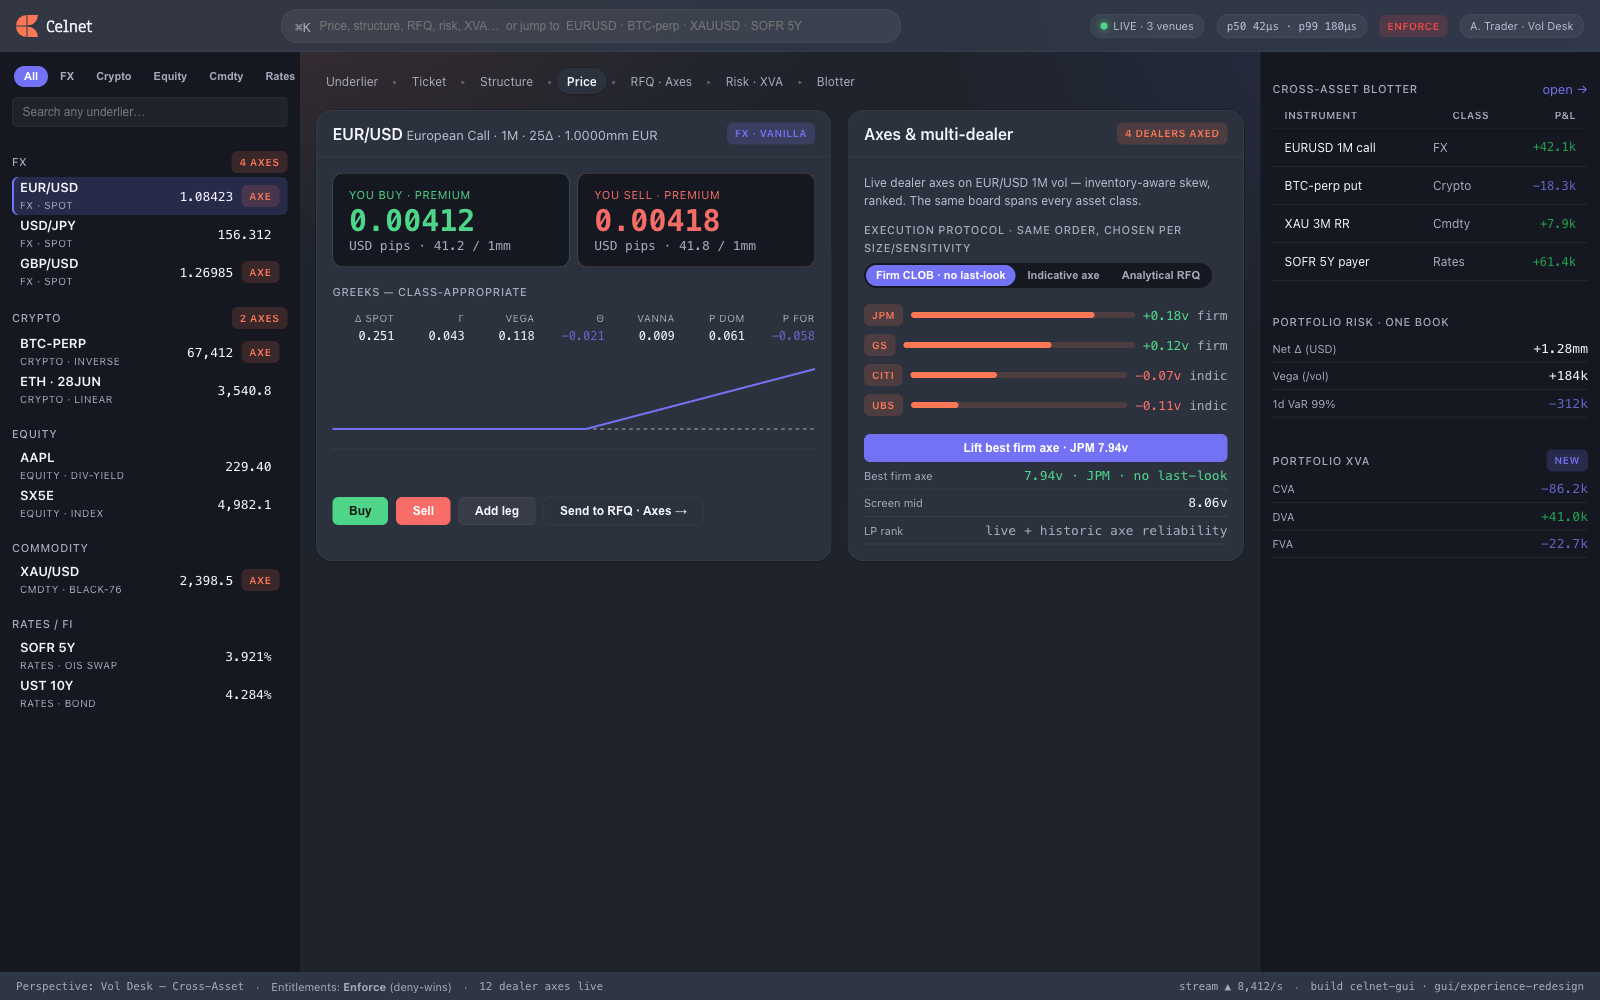
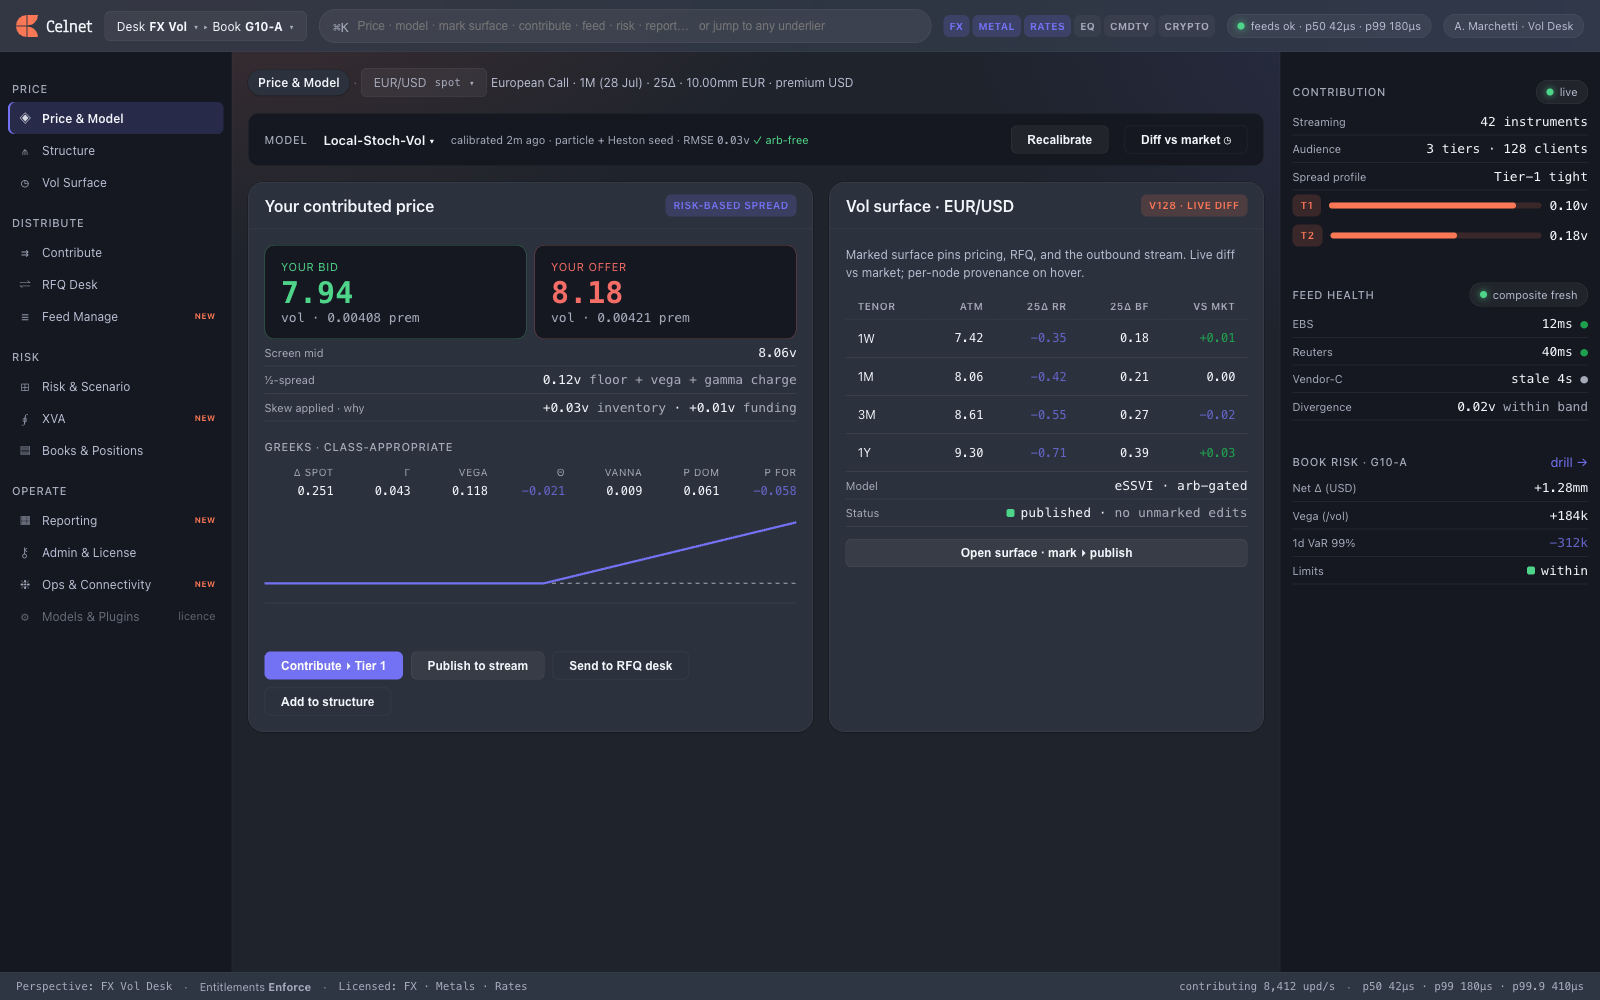
gui-redesign(mockup): rebuild shell 00 to sell-side model (verified render)
Desk/Book scope spine + visible per-class license badges + capability rail; pricing&modelling HERO (model selector/calibration); 'your contributed price' (bid/offer + spread breakdown + skew-why) replaces buy/sell; surface publish + contribution/feed-health/book-risk context. No execution affordances. Rendered 1600x1000.

diff --git a/docs/gui-redesign/mockups/00-shell.html b/docs/gui-redesign/mockups/00-shell.html
@@ -3,7 +3,7 @@
 <head>
 <meta charset="utf-8" />
 <meta name="viewport" content="width=device-width, initial-scale=1" />
-<title>Celnet — Unified Cross-Asset Shell (mockup 00)</title>
+<title>Celnet — Sell-Side Shell (mockup 00, v2)</title>
 <link rel="preconnect" href="https://fonts.googleapis.com" />
 <link href="https://fonts.googleapis.com/css2?family=Anaheim&display=swap" rel="stylesheet" />
 <link rel="stylesheet" href="celer.css" />
@@ -11,77 +11,78 @@
 <body>
 <div class="app">
 
-  <!-- ============ TOP COMMAND BAR (chrome) ============ -->
+  <!-- ============ TOP COMMAND BAR ============ -->
   <header class="topbar">
     <div class="brandlockup">
       <svg class="pinwheel" viewBox="0 0 501 500" aria-hidden="true"><path d="M500.12.7H262.61V238.21C393.78,238.21,500.12,131.88,500.12.7M262.49,262V499.55H500C500,368.38,393.67,262,262.49,262M238.7,499.55V262H1.19c0,131.17,106.34,237.51,237.51,237.51M1.19,238.19H238.7V.67C107.53.67,1.19,107,1.19,238.19"/></svg>
       <span class="wm">Celnet</span>
     </div>
+    <span class="scope" title="Scope everything to a desk & book">Desk <b>FX Vol</b> <span class="car">▾</span> <span class="s">▸</span> Book <b>G10-A</b> <span class="car">▾</span></span>
     <div class="cmd">
       <span class="glyph num">⌘K</span>
-      <input placeholder="Price, structure, RFQ, risk, XVA…  or jump to  EURUSD · BTC-perp · XAUUSD · SOFR 5Y" />
+      <input placeholder="Price · model · mark surface · contribute · feed · risk · report…   or jump to any underlier" />
     </div>
-    <span class="pill"><span class="dot live"></span> LIVE · 3 venues</span>
-    <span class="pill num">p50 42µs · p99 180µs</span>
-    <span class="chip enforce">Enforce</span>
-    <span class="pill">A. Trader · Vol Desk</span>
+    <span class="lic" title="Licensed asset classes for this desk"><span class="t">FX</span><span class="t">Metal</span><span class="t">Rates</span><span class="t off">Eq</span><span class="t off">Cmdty</span><span class="t off">Crypto</span></span>
+    <span class="pill"><span class="dot live"></span> feeds ok · p50 42µs · p99 180µs</span>
+    <span class="pill">A. Marchetti · Vol Desk</span>
   </header>
 
-  <!-- ============ UNIVERSAL UNDERLIER PICKER (entity spine) ============ -->
-  <nav class="nav" aria-label="Universal underlier picker">
-    <div class="seg" role="tablist" aria-label="Asset class filter">
-      <button class="on">All</button><button>FX</button><button>Crypto</button>
-      <button>Equity</button><button>Cmdty</button><button>Rates</button>
-    </div>
-    <input class="search" placeholder="Search any underlier…" />
-
-    <div class="grouphdr"><span class="label">FX</span><span class="chip axe">4 axes</span></div>
-    <div class="uline sel"><div><div class="sym">EUR/USD</div><div class="cls">FX · spot</div></div><div class="px num">1.08423</div><span class="chip axe" title="dealer axe live">AXE</span></div>
-    <div class="uline"><div><div class="sym">USD/JPY</div><div class="cls">FX · spot</div></div><div class="px num">156.312</div><span></span></div>
-    <div class="uline"><div><div class="sym">GBP/USD</div><div class="cls">FX · spot</div></div><div class="px num">1.26985</div><span class="chip axe">AXE</span></div>
-
-    <div class="grouphdr"><span class="label">Crypto</span><span class="chip axe">2 axes</span></div>
-    <div class="uline"><div><div class="sym">BTC-PERP</div><div class="cls">Crypto · inverse</div></div><div class="px num">67,412</div><span class="chip axe">AXE</span></div>
-    <div class="uline"><div><div class="sym">ETH · 28JUN</div><div class="cls">Crypto · linear</div></div><div class="px num">3,540.8</div><span></span></div>
-
-    <div class="grouphdr"><span class="label">Equity</span></div>
-    <div class="uline"><div><div class="sym">AAPL</div><div class="cls">Equity · div-yield</div></div><div class="px num">229.40</div><span></span></div>
-    <div class="uline"><div><div class="sym">SX5E</div><div class="cls">Equity · index</div></div><div class="px num">4,982.1</div><span></span></div>
-
-    <div class="grouphdr"><span class="label">Commodity</span></div>
-    <div class="uline"><div><div class="sym">XAU/USD</div><div class="cls">Cmdty · Black-76</div></div><div class="px num">2,398.5</div><span class="chip axe">AXE</span></div>
-
-    <div class="grouphdr"><span class="label">Rates / FI</span></div>
-    <div class="uline"><div><div class="sym">SOFR 5Y</div><div class="cls">Rates · OIS swap</div></div><div class="px num">3.921%</div><span></span></div>
-    <div class="uline"><div><div class="sym">UST 10Y</div><div class="cls">Rates · bond</div></div><div class="px num">4.284%</div><span></span></div>
+  <!-- ============ CAPABILITY RAIL ============ -->
+  <nav class="rail" aria-label="Capabilities">
+    <div class="grp label">Price</div>
+    <a class="on"><span class="ic">◈</span><span>Price &amp; Model</span><span></span></a>
+    <a><span class="ic">⋔</span><span>Structure</span><span></span></a>
+    <a><span class="ic">◷</span><span>Vol Surface</span><span></span></a>
+    <div class="grp label">Distribute</div>
+    <a><span class="ic">⇉</span><span>Contribute</span><span></span></a>
+    <a><span class="ic">⇌</span><span>RFQ Desk</span><span></span></a>
+    <a><span class="ic">≡</span><span>Feed Manage</span><span class="new">new</span></a>
+    <div class="grp label">Risk</div>
+    <a><span class="ic">⊞</span><span>Risk &amp; Scenario</span><span></span></a>
+    <a><span class="ic">∮</span><span>XVA</span><span class="new">new</span></a>
+    <a><span class="ic">▤</span><span>Books &amp; Positions</span><span></span></a>
+    <div class="grp label">Operate</div>
+    <a><span class="ic">▦</span><span>Reporting</span><span class="new">new</span></a>
+    <a><span class="ic">⚷</span><span>Admin &amp; License</span><span></span></a>
+    <a><span class="ic">❈</span><span>Ops &amp; Connectivity</span><span class="new">new</span></a>
+    <a class="gate"><span class="ic">⚙</span><span>Models &amp; Plugins</span><span class="lock">licence</span></a>
   </nav>
 
-  <!-- ============ MAIN — DRILL-DOWN SPINE + ONE TICKET ============ -->
+  <!-- ============ MAIN — PRICE & MODEL WORKBENCH ============ -->
   <main class="main">
-    <div class="spine" aria-label="Workflow spine">
-      <span class="step">Underlier</span><span class="sep">▸</span>
-      <span class="step">Ticket</span><span class="sep">▸</span>
-      <span class="step">Structure</span><span class="sep">▸</span>
-      <span class="step on">Price</span><span class="sep">▸</span>
-      <span class="step">RFQ · Axes</span><span class="sep">▸</span>
-      <span class="step">Risk · XVA</span><span class="sep">▸</span>
-      <span class="step">Blotter</span>
+    <div class="spine" aria-label="Context">
+      <span class="step on">Price &amp; Model</span><span class="sep">·</span>
+      <span class="underlier-btn" title="Raw vendor ticker: EURUSD (EBS) — human-readable everywhere">EUR/USD <span class="tk">spot</span> <span class="car">▾</span></span>
+      <span class="muted">European Call · 1M (28 Jul) · 25Δ · 10.00mm EUR · premium USD</span>
+    </div>
+
+    <!-- model hero -->
+    <div class="model">
+      <span class="label" style="margin:0">Model</span>
+      <span class="sel">Local-Stoch-Vol <span class="car">▾</span></span>
+      <span class="meta">calibrated 2m ago · particle + Heston seed · RMSE <span class="num">0.03v</span> <span class="ok">✓ arb-free</span></span>
+      <span style="flex:1"></span>
+      <button class="btn">Recalibrate</button>
+      <button class="btn ghost">Diff vs market ◷</button>
     </div>
 
     <div class="cols c2">
-      <!-- Ticket / price -->
+      <!-- contributed price -->
       <section class="panel">
         <header>
-          <div><span class="headline">EUR/USD</span> <span class="muted">European Call · 1M · 25Δ · 1.0000mm EUR</span></div>
-          <span class="chip acc">FX · vanilla</span>
+          <span class="headline">Your contributed price</span>
+          <span class="chip acc">risk-based spread</span>
         </header>
         <div class="body">
           <div class="quote2">
-            <div class="q buy flash"><div class="side">You buy · premium</div><div class="val">0.00412</div><div class="dim num">USD pips · 41.2 / 1mm</div></div>
-            <div class="q sell"><div class="side">You sell · premium</div><div class="val">0.00418</div><div class="dim num">USD pips · 41.8 / 1mm</div></div>
+            <div class="q buy"><div class="side">Your bid</div><div class="val">7.94</div><div class="dim num">vol · 0.00408 prem</div></div>
+            <div class="q sell"><div class="side">Your offer</div><div class="val">8.18</div><div class="dim num">vol · 0.00421 prem</div></div>
           </div>
+          <div class="kv"><span class="k">Screen mid</span><span class="v num">8.06v</span></div>
+          <div class="kv"><span class="k">½-spread</span><span class="v num">0.12v <span class="dim">floor + vega + gamma charge</span></span></div>
+          <div class="kv"><span class="k">Skew applied · why</span><span class="v num">+0.03v <span class="dim">inventory</span> · +0.01v <span class="dim">funding</span></span></div>
 
-          <div style="margin:16px 0 8px" class="label">Greeks — class-appropriate</div>
+          <div style="margin:16px 0 8px" class="label">Greeks · class-appropriate</div>
           <div class="greeks">
             <div class="g"><div class="k">Δ spot</div><div class="v">0.251</div></div>
             <div class="g"><div class="k">Γ</div><div class="v">0.043</div></div>
@@ -92,77 +93,77 @@
             <div class="g"><div class="k">ρ for</div><div class="v neg">−0.058</div></div>
           </div>
 
-          <svg class="payoff" viewBox="0 0 400 120" preserveAspectRatio="none" style="margin-top:14px" aria-label="Payoff at expiry">
-            <line class="axis" x1="0" y1="90" x2="400" y2="90" /><line class="zero" x1="0" y1="70" x2="400" y2="70" />
-            <path class="curve" d="M0,70 L210,70 L400,10" />
+          <svg class="payoff" viewBox="0 0 400 110" preserveAspectRatio="none" style="margin-top:14px" aria-label="Payoff at expiry">
+            <line class="axis" x1="0" y1="82" x2="400" y2="82" /><line class="zero" x1="0" y1="64" x2="400" y2="64" />
+            <path class="curve" d="M0,64 L210,64 L400,8" />
           </svg>
-          <div style="display:flex; gap:8px; margin-top:14px">
-            <button class="btn buy">Buy</button><button class="btn sell">Sell</button>
-            <button class="btn">Add leg</button><button class="btn ghost">Send to RFQ · Axes →</button>
+          <div style="display:flex; gap:8px; margin-top:14px; flex-wrap:wrap">
+            <button class="btn primary">Contribute ▸ Tier 1</button>
+            <button class="btn">Publish to stream</button>
+            <button class="btn ghost">Send to RFQ desk</button>
+            <button class="btn ghost">Add to structure</button>
           </div>
         </div>
       </section>
 
-      <!-- Axes & multi-dealer teaser -->
+      <!-- vol surface signature + provenance -->
       <section class="panel">
-        <header><span class="headline">Axes &amp; multi-dealer</span><span class="chip brand">4 dealers axed</span></header>
+        <header><span class="headline">Vol surface · EUR/USD</span><span class="chip brand">v128 · live diff</span></header>
         <div class="body">
-          <p class="muted" style="margin-top:0; font-size:12px">Live dealer axes on EUR/USD 1M vol — inventory-aware skew, ranked. The same board spans every asset class.</p>
-          <div class="label" style="margin-bottom:6px">Execution protocol · same order, chosen per size/sensitivity</div>
-          <div class="seg" style="margin-bottom:12px">
-            <button class="on">Firm CLOB · no last-look</button><button>Indicative axe</button><button>Analytical RFQ</button>
-          </div>
-          <div class="axeline"><span class="chip brand">JPM</span><span class="bar"><i style="width:82%"></i></span><span class="num bid">+0.18v <span class="dim">firm</span></span></div>
-          <div class="axeline"><span class="chip brand">GS</span><span class="bar"><i style="width:64%"></i></span><span class="num bid">+0.12v <span class="dim">firm</span></span></div>
-          <div class="axeline"><span class="chip brand">CITI</span><span class="bar"><i style="width:40%"></i></span><span class="num offer">−0.07v <span class="dim">indic</span></span></div>
-          <div class="axeline"><span class="chip brand">UBS</span><span class="bar"><i style="width:22%"></i></span><span class="num offer">−0.11v <span class="dim">indic</span></span></div>
-          <button class="btn primary" style="margin-top:14px; width:100%">Lift best firm axe · JPM 7.94v</button>
-          <div class="kv"><span class="k">Best firm axe</span><span class="v bid">7.94v · JPM · no last-look</span></div>
-          <div class="kv"><span class="k">Screen mid</span><span class="v">8.06v</span></div>
-          <div class="kv"><span class="k">LP rank</span><span class="v dim">live + historic axe reliability</span></div>
+          <p class="muted" style="margin-top:0; font-size:12px">Marked surface pins pricing, RFQ, and the outbound stream. Live diff vs market; per-node provenance on hover.</p>
+          <table class="grid">
+            <thead><tr><th>Tenor</th><th>ATM</th><th>25Δ RR</th><th>25Δ BF</th><th>vs mkt</th></tr></thead>
+            <tbody>
+              <tr><td>1W</td><td class="n">7.42</td><td class="n neg">−0.35</td><td class="n">0.18</td><td class="n pos">+0.01</td></tr>
+              <tr><td>1M</td><td class="n">8.06</td><td class="n neg">−0.42</td><td class="n">0.21</td><td class="n">0.00</td></tr>
+              <tr><td>3M</td><td class="n">8.61</td><td class="n neg">−0.55</td><td class="n">0.27</td><td class="n neg">−0.02</td></tr>
+              <tr><td>1Y</td><td class="n">9.30</td><td class="n neg">−0.71</td><td class="n">0.39</td><td class="n pos">+0.03</td></tr>
+            </tbody>
+          </table>
+          <div class="kv"><span class="k">Model</span><span class="v">eSSVI · arb-gated</span></div>
+          <div class="kv"><span class="k">Status</span><span class="v"><span class="rag g"></span>published · <span class="dim">no unmarked edits</span></span></div>
+          <button class="btn" style="margin-top:12px; width:100%">Open surface · mark ▸ publish</button>
         </div>
       </section>
     </div>
   </main>
 
-  <!-- ============ CONTEXT RAIL — cross-asset blotter + risk/XVA ============ -->
-  <aside class="ctx" aria-label="Cross-asset context">
+  <!-- ============ CONTEXT RAIL — scope-aware sell-side ============ -->
+  <aside class="ctx" aria-label="Desk context">
     <section>
-      <div class="grouphdr"><span class="label">Cross-asset blotter</span><a>open →</a></div>
-      <table class="grid">
-        <thead><tr><th>Instrument</th><th>Class</th><th>P&amp;L</th></tr></thead>
-        <tbody>
-          <tr><td>EURUSD 1M call</td><td class="dim">FX</td><td class="n pos">+42.1k</td></tr>
-          <tr><td>BTC-perp put</td><td class="dim">Crypto</td><td class="n neg">−18.3k</td></tr>
-          <tr><td>XAU 3M RR</td><td class="dim">Cmdty</td><td class="n pos">+7.9k</td></tr>
-          <tr><td>SOFR 5Y payer</td><td class="dim">Rates</td><td class="n pos">+61.4k</td></tr>
-        </tbody>
-      </table>
+      <div class="grouphdr"><span class="label">Contribution</span><span class="pill"><span class="dot live"></span> live</span></div>
+      <div class="kv"><span class="k">Streaming</span><span class="v num">42 instruments</span></div>
+      <div class="kv"><span class="k">Audience</span><span class="v num">3 tiers · 128 clients</span></div>
+      <div class="kv"><span class="k">Spread profile</span><span class="v">Tier-1 tight</span></div>
+      <div class="axeline"><span class="chip brand">T1</span><span class="bar"><i style="width:88%"></i></span><span class="num">0.10v</span></div>
+      <div class="axeline"><span class="chip brand">T2</span><span class="bar"><i style="width:60%"></i></span><span class="num">0.18v</span></div>
     </section>
 
     <section>
-      <div class="grouphdr"><span class="label">Portfolio risk · one book</span></div>
-      <div class="kv"><span class="k">Net Δ (USD)</span><span class="v">+1.28mm</span></div>
-      <div class="kv"><span class="k">Vega (/vol)</span><span class="v">+184k</span></div>
-      <div class="kv"><span class="k">1d VaR 99%</span><span class="v neg">−312k</span></div>
+      <div class="grouphdr"><span class="label">Feed health</span><span class="pill"><span class="dot live"></span> composite fresh</span></div>
+      <div class="kv"><span class="k">EBS</span><span class="v num">12ms <span class="pos">●</span></span></div>
+      <div class="kv"><span class="k">Reuters</span><span class="v num">40ms <span class="pos">●</span></span></div>
+      <div class="kv"><span class="k">Vendor-C</span><span class="v num">stale 4s <span class="dim">●</span></span></div>
+      <div class="kv"><span class="k">Divergence</span><span class="v num">0.02v <span class="dim">within band</span></span></div>
     </section>
 
     <section>
-      <div class="grouphdr"><span class="label">Portfolio XVA</span><span class="chip acc">new</span></div>
-      <div class="kv"><span class="k">CVA</span><span class="v neg">−86.2k</span></div>
-      <div class="kv"><span class="k">DVA</span><span class="v pos">+41.0k</span></div>
-      <div class="kv"><span class="k">FVA</span><span class="v neg">−22.7k</span></div>
+      <div class="grouphdr"><span class="label">Book risk · G10-A</span><a>drill →</a></div>
+      <div class="kv"><span class="k">Net Δ (USD)</span><span class="v num">+1.28mm</span></div>
+      <div class="kv"><span class="k">Vega (/vol)</span><span class="v num">+184k</span></div>
+      <div class="kv"><span class="k">1d VaR 99%</span><span class="v num neg">−312k</span></div>
+      <div class="kv"><span class="k">Limits</span><span class="v"><span class="rag g"></span>within</span></div>
     </section>
   </aside>
 
   <!-- ============ STATUS BAR ============ -->
   <footer class="statusbar">
-    <span class="num">Perspective: Vol Desk — Cross-Asset</span>
-    <span class="dim">·</span><span>Entitlements: <b>Enforce</b> (deny-wins)</span>
-    <span class="dim">·</span><span class="num">12 dealer axes live</span>
+    <span class="num">Perspective: FX Vol Desk</span>
+    <span class="dim">·</span><span>Entitlements <b>Enforce</b></span>
+    <span class="dim">·</span><span class="num">Licensed: FX · Metals · Rates</span>
     <span style="flex:1"></span>
-    <span class="num">stream ▲ 8,412/s</span><span class="dim">·</span>
-    <span class="num">build celnet-gui · gui/experience-redesign</span>
+    <span class="num">contributing 8,412 upd/s</span><span class="dim">·</span>
+    <span class="num">p50 42µs · p99 180µs · p99.9 410µs</span>
   </footer>
 
 </div>

diff --git a/docs/gui-redesign/mockups/celer.css b/docs/gui-redesign/mockups/celer.css
@@ -108,7 +108,7 @@ a { color: var(--accent); text-decoration: none; }
 
 /* --- app shell grid --- */
 .app { display: grid; height: 100vh;
-  grid-template-columns: 300px 1fr 340px; grid-template-rows: 52px 1fr 28px;
+  grid-template-columns: 232px 1fr 320px; grid-template-rows: 52px 1fr 28px;
   grid-template-areas: "top top top" "nav main ctx" "status status status"; }
 .topbar { grid-area: top; }
 .nav { grid-area: nav; } .main { grid-area: main; } .ctx { grid-area: ctx; }
@@ -235,3 +235,35 @@ a { color: var(--accent); text-decoration: none; }
 .axeline { display: grid; grid-template-columns: auto 1fr auto; gap: var(--space-3); align-items: center; padding: var(--space-2) 0; }
 .axeline .bar { height: 6px; border-radius: var(--r-full); background: var(--brand-soft); position: relative; }
 .axeline .bar > i { position: absolute; inset: 0 auto 0 0; background: var(--brand); border-radius: var(--r-full); display: block; }
+
+/* === sell-side shell additions === */
+/* capability rail (left nav) */
+.rail { grid-area: nav; background: var(--bg-inset); border-right: var(--hairline); padding: var(--space-4) var(--space-3); overflow-y: auto; }
+.rail .grp { margin: var(--space-5) var(--space-2) var(--space-2); }
+.rail a { display: grid; grid-template-columns: 18px 1fr auto; gap: var(--space-3); align-items: center; height: 32px; padding: 0 var(--space-3); border-radius: var(--r-sm); color: var(--text-secondary); cursor: pointer; font-size: var(--type-callout); }
+.rail a:hover { background: oklch(1 0 0 / 0.04); color: var(--text-primary); }
+.rail a.on { background: var(--accent-soft); color: var(--text-primary); box-shadow: inset 2px 0 0 var(--accent); font-weight: 600; }
+.rail a.gate { opacity: 0.5; }
+.rail a .ic { text-align: center; opacity: 0.85; font-size: 13px; }
+.rail .new { font-size: 8px; text-transform: uppercase; letter-spacing: 0.04em; color: var(--brand); font-weight: 700; }
+.rail .lock { font-size: 11px; color: var(--text-tertiary); }
+
+/* desk/book scope selector (chrome) */
+.scope { display: inline-flex; align-items: center; gap: var(--space-2); height: 30px; padding: 0 var(--space-4); border-radius: var(--r-sm); background: oklch(1 0 0 / 0.05); border: var(--hairline); font-size: var(--type-callout); white-space: nowrap; }
+.scope b { color: var(--text-primary); } .scope .s { color: var(--text-tertiary); }
+.scope .car { color: var(--text-tertiary); margin-left: 2px; }
+
+/* license badges */
+.lic { display: inline-flex; gap: 3px; }
+.lic .t { font-size: var(--type-micro); text-transform: uppercase; letter-spacing: 0.03em; padding: 2px 6px; border-radius: var(--r-sm); background: var(--accent-soft); color: var(--accent); font-weight: 700; }
+.lic .t.off { background: oklch(1 0 0 / 0.04); color: var(--text-tertiary); }
+
+/* model-hero row */
+.model { display: flex; align-items: center; gap: var(--space-5); padding: var(--space-4) var(--space-5); border-radius: var(--r-md); background: var(--bg-inset); border: var(--hairline); }
+.model .sel { font-weight: 600; } .model .meta { color: var(--text-tertiary); font-size: var(--type-caption); }
+.model .ok { color: var(--bid); }
+
+/* contributable price (sell-side, not buy/sell) */
+.underlier-btn { display: inline-flex; align-items: center; gap: 8px; padding: 5px 12px; border-radius: var(--r-sm); background: oklch(1 0 0 / 0.05); border: var(--hairline); cursor: pointer; }
+.underlier-btn .tk { font-family: var(--font-mono); color: var(--text-tertiary); font-size: var(--type-caption); }
+.health .dot { margin-right: 6px; }
